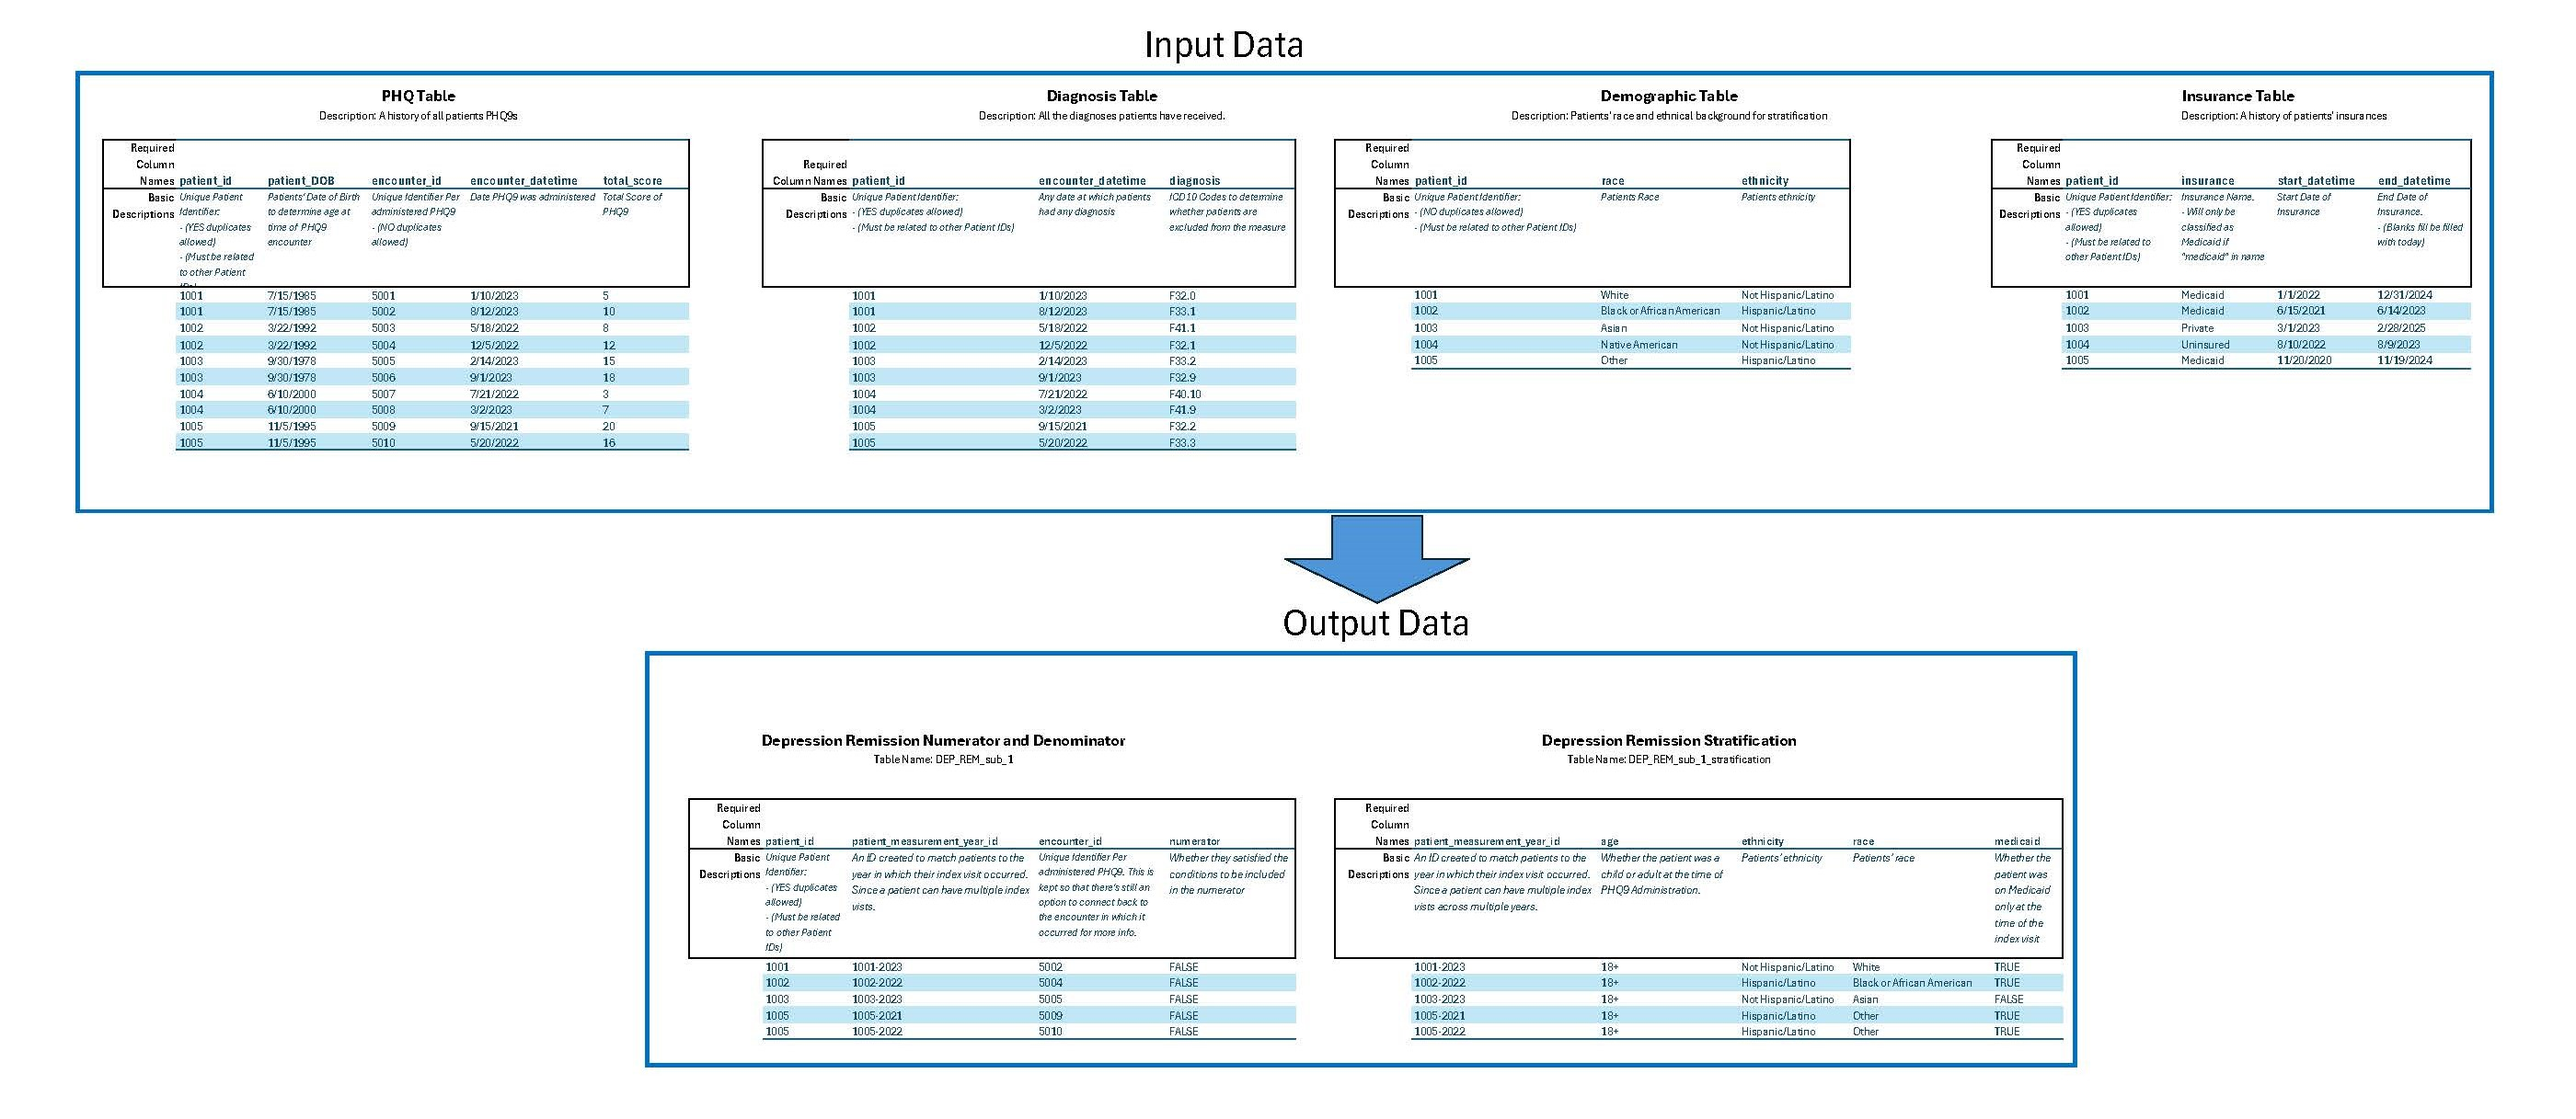
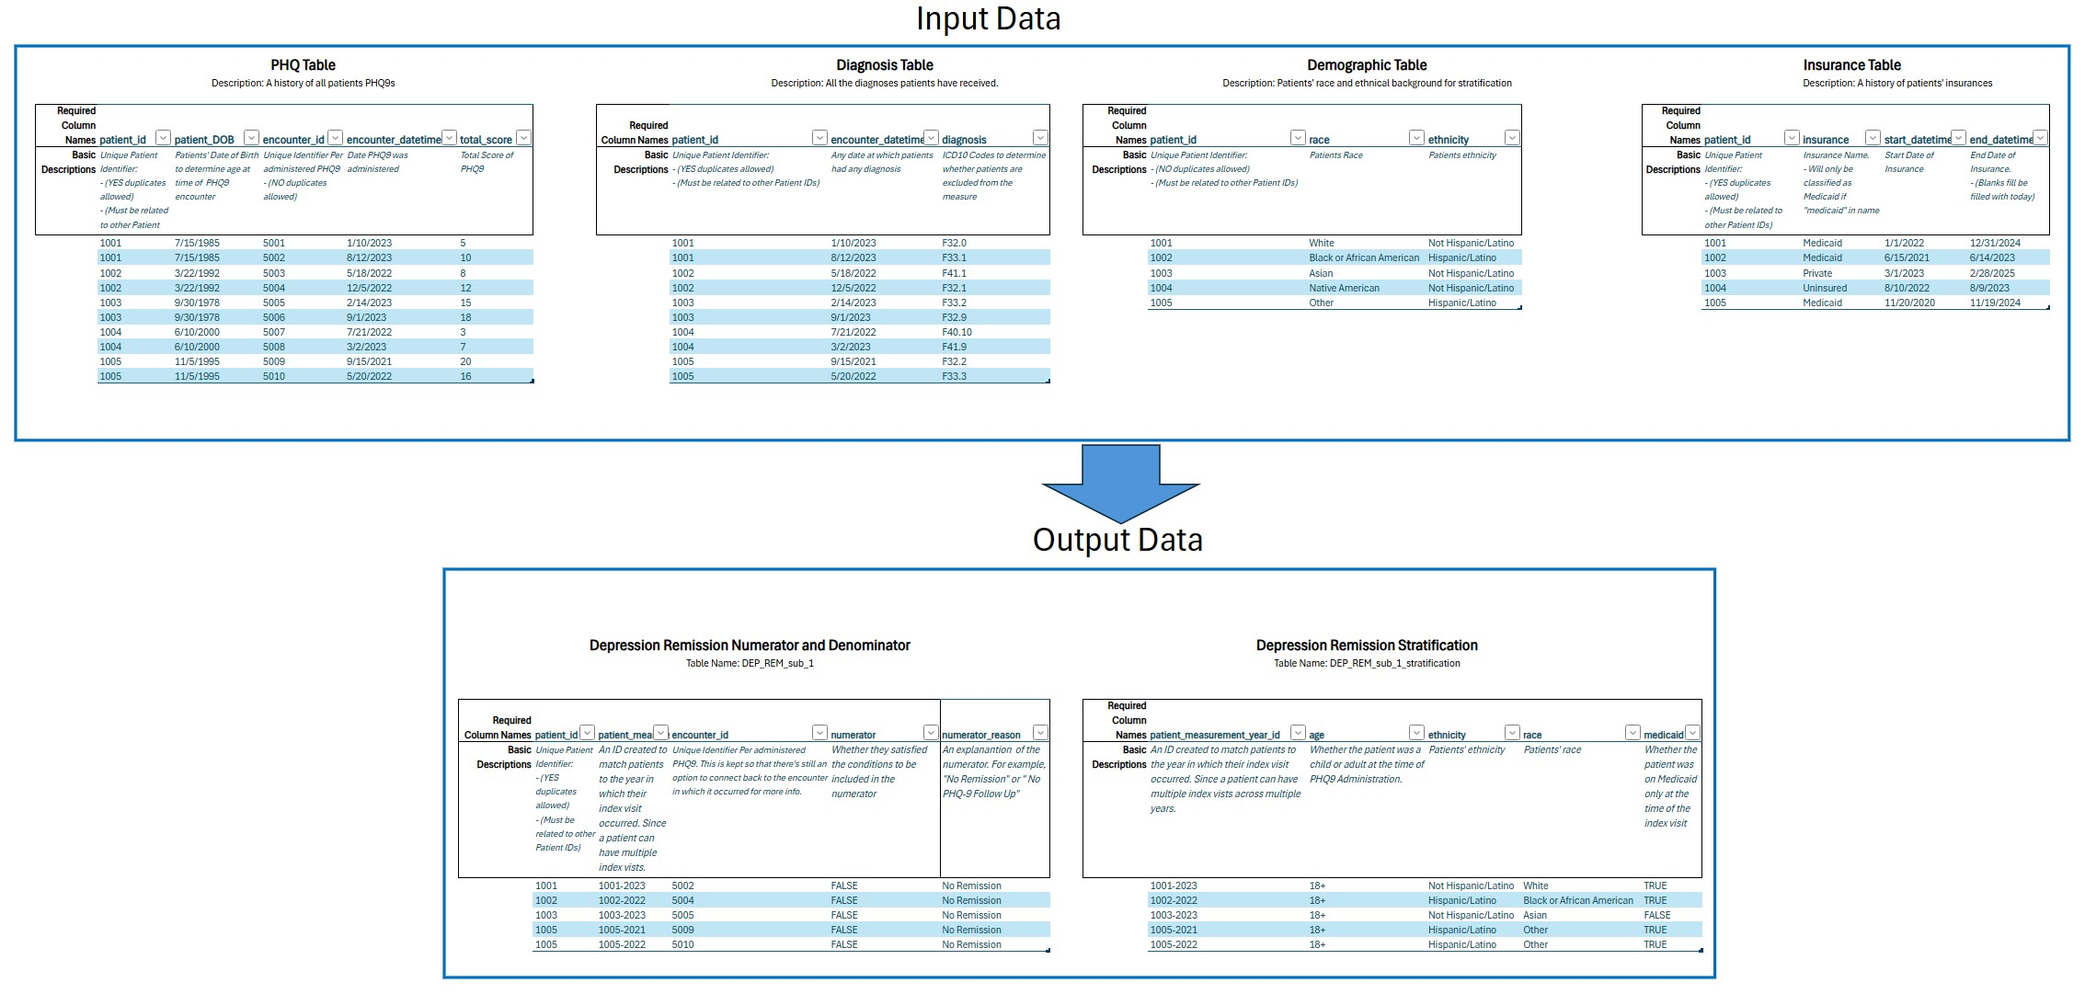
Update ReadMe, Added Reason column to DEP-REM, Adjusted DEP-REM example images

Changed region(s): [[0.0, 0.0, 1.0, 1.0]]

diff --git a/ccbhc_measurements/measurements/dep_rem.py b/ccbhc_measurements/measurements/dep_rem.py
@@ -201,13 +201,16 @@ class _Sub_1(Submeasure):
                 numerator description
         """
         index_group = self.__populace__[self.__populace__['patient_id'] == iv['patient_id']].copy()
-        index_group = index_group[(index_group['encounter_datetime'].dt.date >= iv['earliest_remission']) & (index_group['encounter_datetime'].dt.date <= (iv['latest_remission']))]
-        has_remission = len(index_group[index_group['total_score'] < 5]) >= 1
+        remission_group = index_group[(index_group['encounter_datetime'].dt.date >= iv['earliest_remission']) & (index_group['encounter_datetime'].dt.date <= (iv['latest_remission']))]
+        has_remission = len(remission_group[remission_group['total_score'] < 5]) >= 1
         if has_remission:
             reason = "Has Remission"
-        elif index_group.empty: # all encounters were filtered out because of the early/late remission date
-            reason = "Remission Time Period not Reached"
-        else: # had encounters durring the remission period but didn't have a score < 5
+        elif remission_group.empty: # the df could be empty b/c eiter the date filter OR nothing was given after the earliest remission date
+            if datetime.now().date() < iv['earliest_remission']:
+                reason = "Remission Period not Reached"
+            else:
+                reason = "No PHQ-9 Follow Up"
+        else: # must have given a follow up, but scored too high
             reason = "No Remission"
         return has_remission,reason
 
